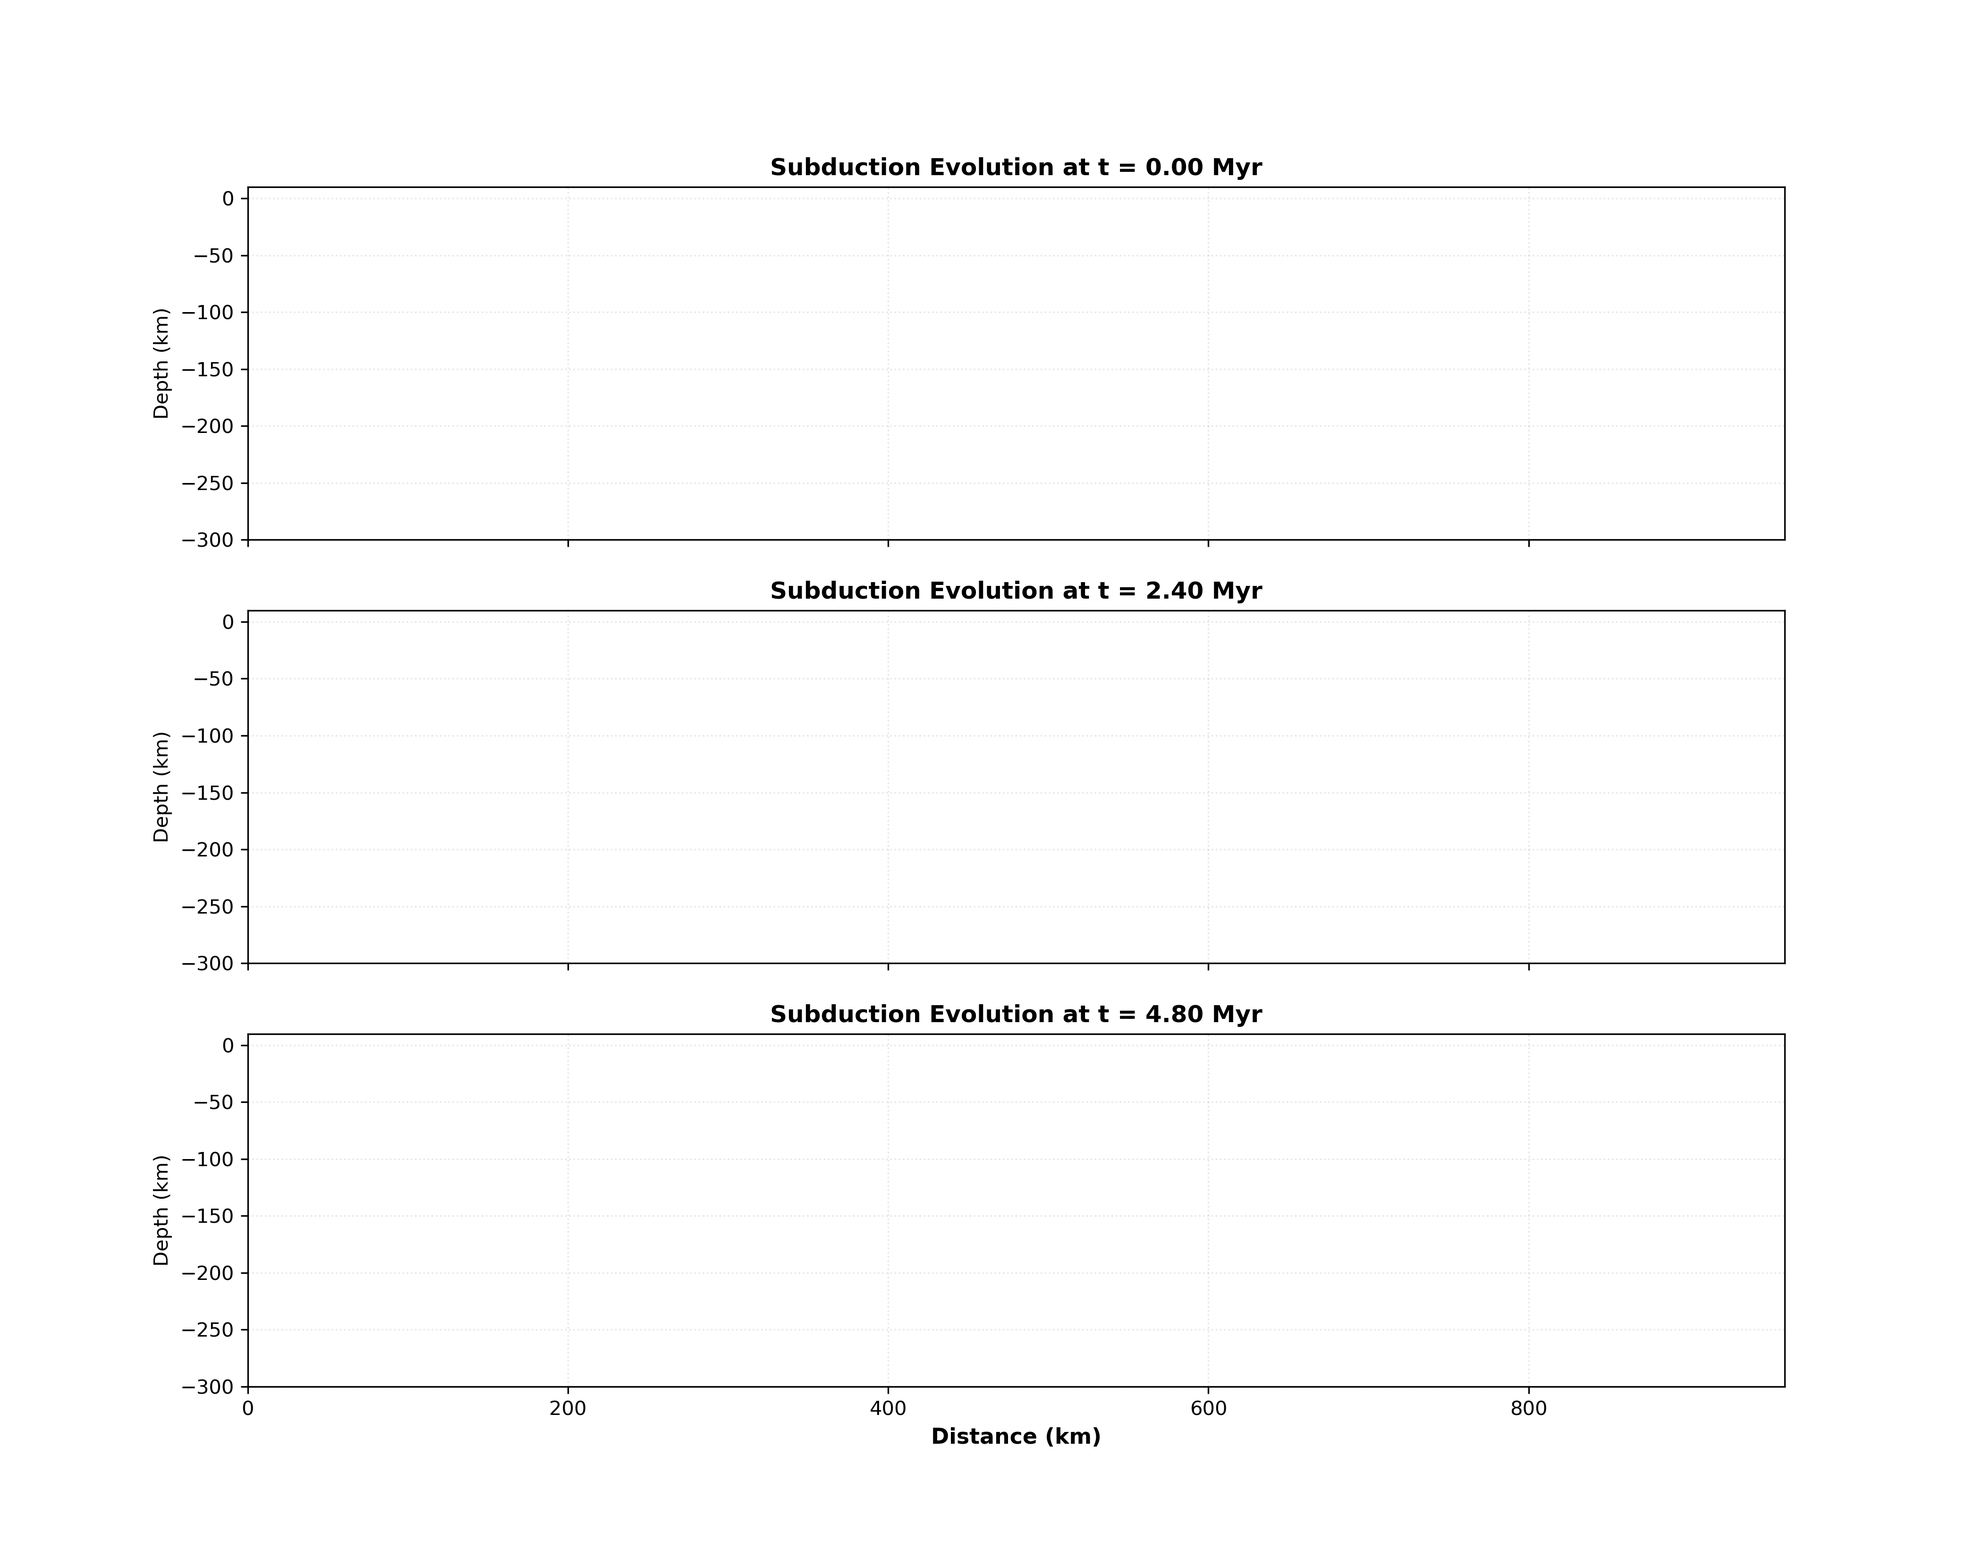
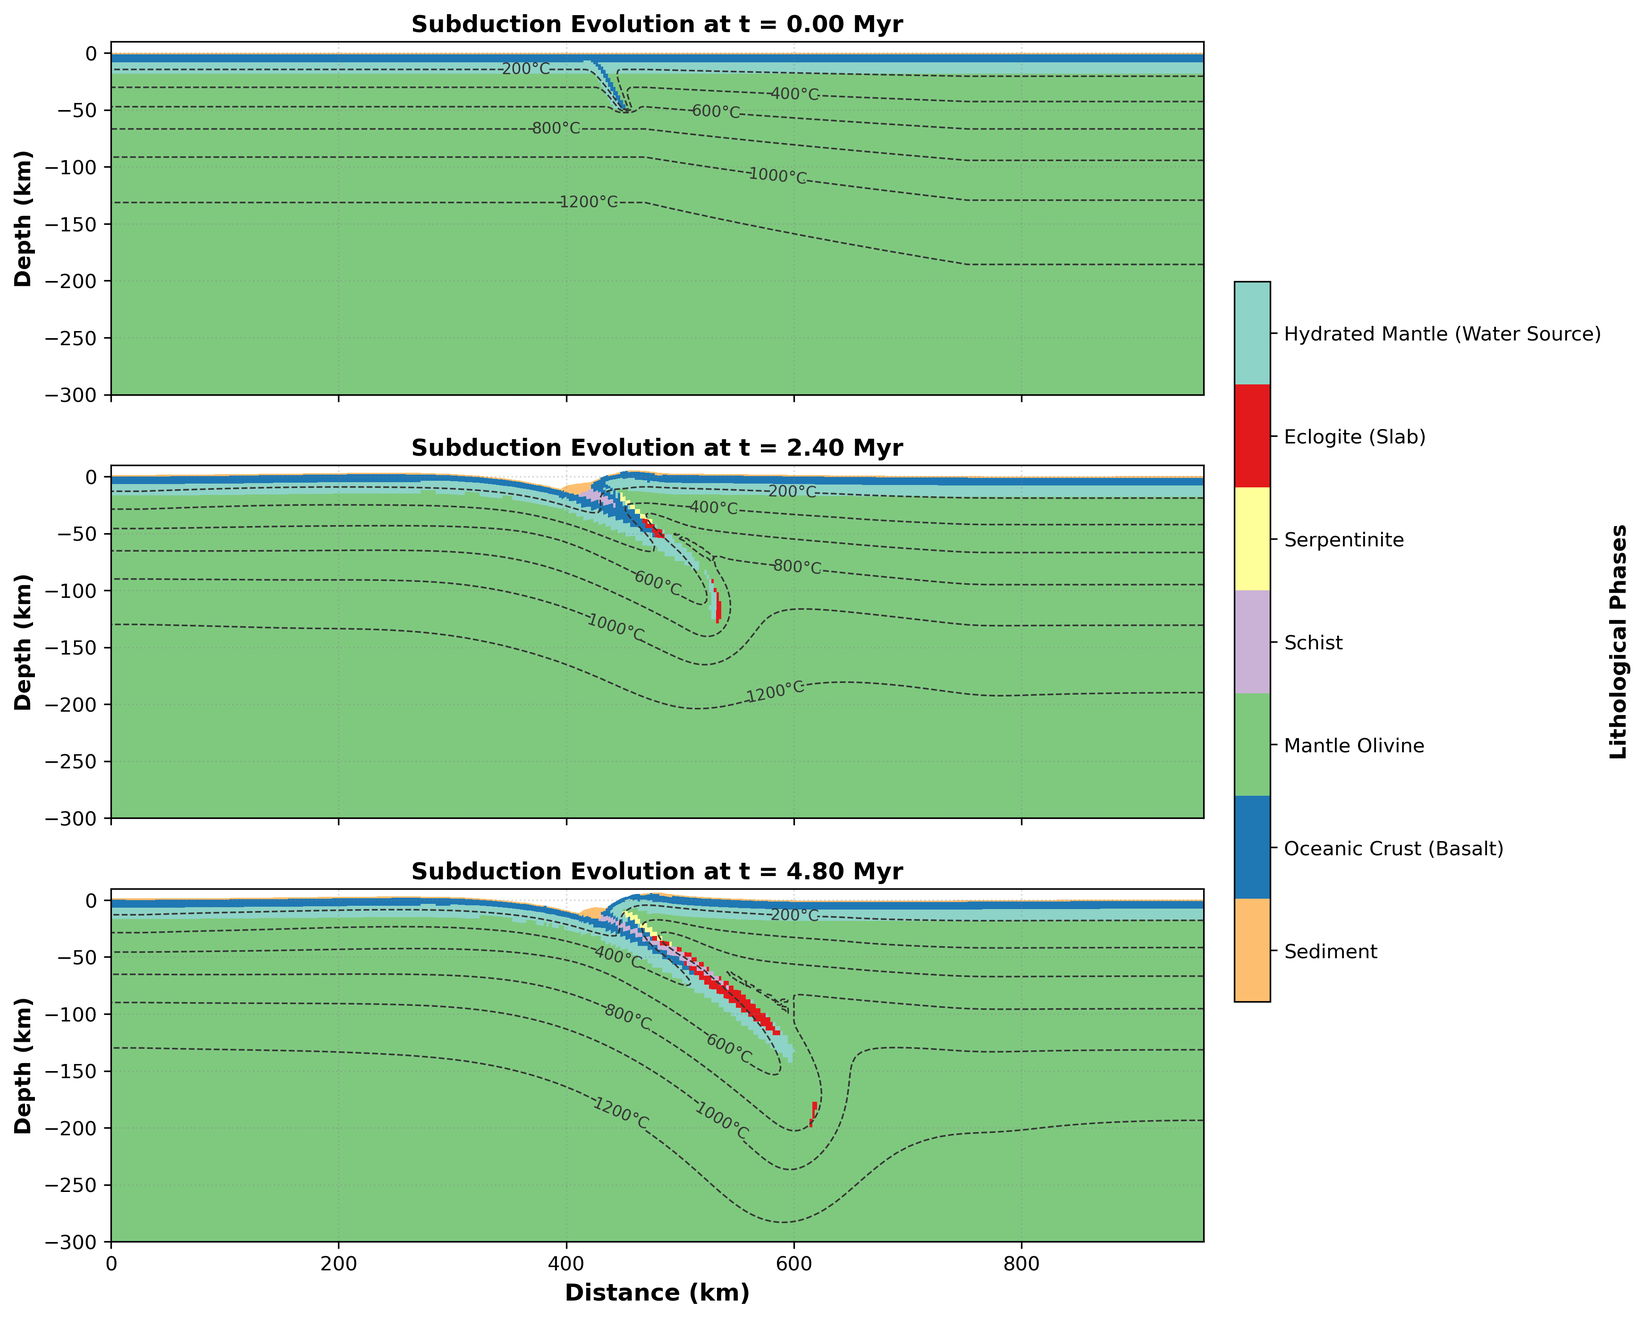
tutorial: redraw subduction zone, manually

diff --git a/examples/tutorial13-subduction/plot_subduction.py b/examples/tutorial13-subduction/plot_subduction.py
@@ -29,222 +29,86 @@ def main():
     # Create a directory for images if it doesn't exist
     os.makedirs('images', exist_ok=True)
     
-    # Plot final frame
-    frame = nrec
-    time_myr = fl.time[frame - 1]  # time in Myr
-    print(f"Plotting frame {frame} at time {time_myr:.2f} Myr...")
-    
-    # Read mesh coordinates
-    x, z = fl.read_mesh(frame)
-    X_km = x / 1e3
-    Z_km = z / 1e3
-    
-    # Read variables
-    phase = fl.read_phase(frame)
-    temp = fl.read_temperature(frame)
-    vx, vz = fl.read_vel(frame)
-    
-    # Convert velocity to cm/yr
-    # 1 m/s = 100 cm/s * 3.1536e7 s/yr = 3.1536e9 cm/yr
-    vx_cm_yr = vx * 3.1536e9
-    vz_cm_yr = vz * 3.1536e9
-    
-    # Try reading magma and melt fractions
-    try:
-        fmagma = fl.read_fmagma(frame)
-        has_magma = True
-    except Exception:
-        fmagma = np.zeros_like(phase, dtype=float)
-        has_magma = False
-        print("Note: Magma fraction file (fmagma.0) not found or could not be read.")
-
-    try:
-        fmelt = fl.read_fmelt(frame)
-        has_melt = True
-    except Exception:
-        fmelt = np.zeros_like(phase, dtype=float)
-        has_melt = False
-        print("Note: Melt fraction file (fmelt.0) not found or could not be read.")
-
     # 18 phases defined in subduction.inp
     # Map each phase ID to a specific name and hexadecimal color
     phase_info = {
-        1:  ("Basalt (Anhydrous)", "#a6cee3"),
-        2:  ("Cont. Crust (Upper)", "#fdbf6f"),
-        3:  ("Basalt (Oceanic)", "#1f78b4"),
-        4:  ("Olivine (Mantle)", "#33a02c"),
+        1:  ("Sediment", "#fdbf6f"),
+        2:  ("Continental Crust", "#fdbf6f"),
+        3:  ("Oceanic Crust (Basalt)", "#1f78b4"),
+        4:  ("Mantle Olivine", "#7fc97f"),
         5:  ("Schist", "#cab2d6"),
-        6:  ("Cont. Crust (Lower)", "#ff7f00"),
-        7:  ("Basalt (Oceanic II)", "#b2df8a"),
-        8:  ("Olivine (Mantle II)", "#6a3d9a"),
-        9:  ("Serpentinite (Mantle wedge)", "#ffff99"),
+        6:  ("Lower Cont. Crust", "#ff7f00"),
+        7:  ("Basaltic Crust II", "#b2df8a"),
+        8:  ("Mantle Olivine II", "#a6d854"),
+        9:  ("Serpentinite", "#ffff99"),
         10: ("Sedimentary Rock", "#b15928"),
-        11: ("Sediment", "#fb9a99"),
-        12: ("Weak Cont. Crust", "#fb8072"),
-        13: ("Eclogite (Metamorphic Slab)", "#e31a1c"),
+        11: ("Sediment II", "#fb9a99"),
+        12: ("Weak Crust", "#fb8072"),
+        13: ("Eclogite (Slab)", "#e31a1c"),
         14: ("Arc Crust (Volcanics)", "#e7298a"),
         15: ("Weak Mid Crust", "#bc80bd"),
-        16: ("Hydrated Mantle (Melt Source)", "#8dd3c7"),
+        16: ("Hydrated Mantle (Water Source)", "#8dd3c7"),
         17: ("Metamorphic Sediment", "#bebada"),
-        18: ("Dry Mantle (Deep)", "#80b1d3")
+        18: ("Dry Mantle", "#33a02c")
     }
 
-    # Define color array for ListedColormap
-    max_phase = 18
-    color_list = ["#ffffff"] * max_phase
-    for pid, (_, color) in phase_info.items():
-        color_list[pid - 1] = color
-    cmap_phase = mcolors.ListedColormap(color_list)
+    # Define active phases and a compact ListedColormap containing only their colors
+    active_phases = [1, 3, 4, 5, 9, 13, 16]
+    cmap_active = mcolors.ListedColormap([phase_info[pid][1] for pid in active_phases])
 
     # ----------------------------------------------------
-    # Plot 1: Full Subduction Zone Profile
-    # ----------------------------------------------------
-    fig1, ax1 = plt.subplots(figsize=(15, 6))
-    
-    # Plot phase distribution
-    im1 = ax1.pcolormesh(X_km, Z_km, phase, cmap=cmap_phase, vmin=0.5, vmax=max_phase+0.5, shading='flat')
-    
-    # Add temperature isotherms (contours)
-    # temp is a nodal variable
-    cs1 = ax1.contour(X_km, Z_km, temp, levels=[200, 400, 600, 800, 1000, 1200], 
-                       colors='#222222', linewidths=0.8, linestyles='--')
-    ax1.clabel(cs1, inline=True, fmt='%d°C', fontsize=8, colors='#222222')
-    
-    # Overlay velocity vectors (downsampled for clarity)
-    # Mesh size is 186x65. Let's skip every 5 in X and 2 in Z
-    skip_x = 5
-    skip_z = 2
-    ax1.quiver(X_km[::skip_z, ::skip_x], Z_km[::skip_z, ::skip_x], 
-               vx_cm_yr[::skip_z, ::skip_x], vz_cm_yr[::skip_z, ::skip_x],
-               color='black', scale=15.0, width=0.001, alpha=0.6,
-               label='Velocity field (cm/yr)')
-
-    # Add legend for key phases
-    # Include only the phases that are active and important in subduction
-    from matplotlib.patches import Patch
-    key_phases = [3, 4, 9, 13, 14, 16]
-    legend_elements = [
-        Patch(facecolor=phase_info[pid][1], edgecolor='gray', label=f"{phase_info[pid][0]} (Phase {pid})")
-        for pid in key_phases
-    ]
-    ax1.legend(handles=legend_elements, loc='lower left', framealpha=0.9, fontsize=9)
-    
-    ax1.set_xlabel('Distance (km)', fontsize=12, fontweight='bold')
-    ax1.set_ylabel('Depth (km)', fontsize=12, fontweight='bold')
-    ax1.set_title(f'Ocean-Ocean Subduction: Phase Distribution & Geotherm at {time_myr:.2f} Myr', 
-                  fontsize=14, fontweight='bold', pad=12)
-    ax1.grid(True, linestyle=':', alpha=0.3, color='gray')
-    ax1.set_xlim(0, 960)
-    ax1.set_ylim(-300, 10)
-    
-    plt.tight_layout()
-    plt.savefig('images/subduction_full_zone.png', dpi=300)
-    plt.close()
-    
-    # ----------------------------------------------------
-    # Plot 2: Zoomed-in Mantle Wedge and Arc Melting Zone
-    # ----------------------------------------------------
-    fig2, axes2 = plt.subplots(2, 1, figsize=(12, 10), sharex=True)
-    
-    # Set zoom limits (focus on the mantle wedge / subduction interface)
-    x_zoom_min, x_zoom_max = 300, 700
-    z_zoom_min, z_zoom_max = -150, 10
-
-    # Panel 2A: Zoomed Phase & Velocity Field
-    ax_a = axes2[0]
-    ax_a.pcolormesh(X_km, Z_km, phase, cmap=cmap_phase, vmin=0.5, vmax=max_phase+0.5, shading='flat')
-    cs_a = ax_a.contour(X_km, Z_km, temp, levels=[400, 600, 800, 1000, 1200], 
-                         colors='#222222', linewidths=1.0, linestyles='--')
-    ax_a.clabel(cs_a, inline=True, fmt='%d°C', fontsize=8, colors='#222222')
-    
-    # Downsample velocity quiver for zoom
-    skip_x_z = 2
-    skip_z_z = 1
-    ax_a.quiver(X_km[::skip_z_z, ::skip_x_z], Z_km[::skip_z_z, ::skip_x_z], 
-               vx_cm_yr[::skip_z_z, ::skip_x_z], vz_cm_yr[::skip_z_z, ::skip_x_z],
-               color='black', scale=10.0, width=0.0015, headwidth=4, headlength=5)
-    
-    ax_a.set_ylabel('Depth (km)', fontsize=11, fontweight='bold')
-    ax_a.set_title('Mantle Wedge: Phase Transformations & Dehydration Flow (Zoom)', 
-                  fontsize=13, fontweight='bold', pad=10)
-    ax_a.grid(True, linestyle=':', alpha=0.3, color='gray')
-    ax_a.set_xlim(x_zoom_min, x_zoom_max)
-    ax_a.set_ylim(z_zoom_min, z_zoom_max)
-    
-    # Panel 2B: Magma & Melt Fraction in the Wedge
-    ax_b = axes2[1]
-    
-    # Plot temperature isotherms as background
-    ax_b.contourf(X_km, Z_km, temp, levels=15, cmap='Oranges', alpha=0.1)
-    
-    # Plot fmagma or fmelt if available
-    if has_magma or has_melt:
-        plot_var = fmagma if has_magma else fmelt
-        var_label = 'Magma Fraction' if has_magma else 'Melt Fraction'
-        cmap_magma = plt.colormaps.get_cmap('Reds')
-        cmap_magma.set_under(alpha=0.0) # transparent for zero magma
-        
-        im_magma = ax_b.pcolormesh(X_km, Z_km, plot_var, cmap=cmap_magma, vmin=0.001, vmax=0.10, shading='flat')
-        cbar_magma = fig2.colorbar(im_magma, ax=ax_b, orientation='vertical', pad=0.02, shrink=0.8)
-        cbar_magma.set_label(f'{var_label} (Vol %)', fontsize=10, fontweight='bold')
-    else:
-        # Fallback representation of melting zone based on temperature & hydrated phase
-        # Just plot a colored zone where phase == 16 (hydrated mantle)
-        hydrated_mask = (phase == 16).astype(float)
-        cmap_fallback = mcolors.ListedColormap(['none', '#8dd3c7'])
-        im_fallback = ax_b.pcolormesh(X_km, Z_km, hydrated_mask, cmap=cmap_fallback, shading='flat', vmin=0.5, vmax=1.5)
-        
-        # Legend indicating hydrated mantle
-        legend_elements_b = [Patch(facecolor='#8dd3c7', edgecolor='gray', label='Hydrated Mantle wedge (Potential Melt Source)')]
-        ax_b.legend(handles=legend_elements_b, loc='upper left')
-
-    # Add slab slab contours for reference (basalt #3 and eclogite #13)
-    slab_mask = ((phase == 3) | (phase == 13)).astype(float)
-    ax_b.contour(X_km[:-1, :-1] + 0.5 * (X_km[1:, 1:] - X_km[:-1, :-1]), 
-                 Z_km[:-1, :-1] + 0.5 * (Z_km[1:, 1:] - Z_km[:-1, :-1]), 
-                 slab_mask, levels=[0.5], colors='#1f78b4', linewidths=1.2)
-    
-    # Overlay geotherm contours
-    cs_b = ax_b.contour(X_km, Z_km, temp, levels=[600, 800, 1000, 1200], 
-                         colors='#444444', linewidths=0.8, linestyles='--')
-    ax_b.clabel(cs_b, inline=True, fmt='%d°C', fontsize=8, colors='#444444')
-    
-    ax_b.set_xlabel('Distance (km)', fontsize=11, fontweight='bold')
-    ax_b.set_ylabel('Depth (km)', fontsize=11, fontweight='bold')
-    ax_b.set_title('Magma Generation & Diking Conduit Zone', fontsize=13, fontweight='bold', pad=10)
-    ax_b.grid(True, linestyle=':', alpha=0.3, color='gray')
-    ax_b.set_xlim(x_zoom_min, x_zoom_max)
-    ax_b.set_ylim(z_zoom_min, z_zoom_max)
-    
-    plt.tight_layout()
-    plt.savefig('images/subduction_mantle_wedge.png', dpi=300)
-    plt.close()
-    
-    print("Saved 'images/subduction_full_zone.png' and 'images/subduction_mantle_wedge.png'")
-    
-    # ----------------------------------------------------
-    # Plot 3: Subduction Evolution Sequence
+    # Plot: Subduction Evolution Sequence
     # ----------------------------------------------------
     if nrec >= 3:
         fig_evo, axes_evo = plt.subplots(3, 1, figsize=(14, 11), sharex=True, sharey=True)
         frames_to_plot = [1, nrec // 2 + 1, nrec]
         
+        im = None
         for idx, f_idx in enumerate(frames_to_plot):
             ax = axes_evo[idx]
             x_f, z_f = fl.read_mesh(f_idx)
             phase_f = fl.read_phase(f_idx)
+            temp_f = fl.read_temperature(f_idx)
             t_f = fl.time[f_idx - 1]
             
-            ax.pcolormesh(x_f/1e3, z_f/1e3, phase_f, cmap=cmap_phase, vmin=0.5, vmax=max_phase+0.5, shading='flat')
-            ax.set_title(f'Subduction Evolution at t = {t_f:.2f} Myr', fontsize=12, fontweight='bold')
-            ax.set_ylabel('Depth (km)', fontsize=10)
-            ax.grid(True, linestyle=':', alpha=0.3)
+            # Map original phase IDs to 0..6 for compact mapping
+            phase_mapped = np.zeros_like(phase_f, dtype=int)
+            for p_idx, pid in enumerate(active_phases):
+                phase_mapped[phase_f == pid] = p_idx
+                
+            im = ax.pcolormesh(x_f, z_f, phase_mapped, cmap=cmap_active, vmin=-0.5, vmax=len(active_phases)-0.5, shading='flat')
+            
+            # Overlay temperature contours
+            cs = ax.contour(x_f, z_f, temp_f, levels=[200, 400, 600, 800, 1000, 1200], 
+                             colors='#333333', linewidths=0.8, linestyles='--')
+            ax.clabel(cs, inline=True, fmt='%d°C', fontsize=8, colors='#333333')
+            
+            ax.set_title(f'Subduction Evolution at t = {t_f:.2f} Myr', fontsize=12, fontweight='bold', pad=5)
+            ax.set_ylabel('Depth (km)', fontsize=11, fontweight='bold')
+            ax.grid(True, linestyle=':', alpha=0.3, color='gray')
             ax.set_ylim(-300, 10)
             ax.set_xlim(0, 960)
+            ax.set_aspect('equal')
             
-        axes_evo[-1].set_xlabel('Distance (km)', fontsize=11, fontweight='bold')
-        plt.savefig('images/subduction_evolution.png', dpi=300)
-        print("Saved 'images/subduction_evolution.png'")
+        axes_evo[-1].set_xlabel('Distance (km)', fontsize=12, fontweight='bold')
+        
+        # Set vertical space between the stacked subplots
+        fig_evo.subplots_adjust(hspace=0.20)
+        
+        # Add a single colorbar for all panels
+        cbar = fig_evo.colorbar(im, ax=axes_evo.tolist(), orientation='vertical', pad=0.02, shrink=0.6)
+        cbar.set_label('Lithological Phases', fontsize=11, fontweight='bold')
+        
+        # Use rock types instead of numbers for the colorbar labels
+        cbar.set_ticks(range(len(active_phases)))
+        cbar.set_ticklabels([phase_info[pid][0] for pid in active_phases])
+        
+        plot_path = 'images/subduction_evolution.png'
+        plt.savefig(plot_path, dpi=300, bbox_inches='tight')
+        plt.close()
+        print(f"Saved '{plot_path}' successfully.")
+    else:
+        print("Note: Evolution plot requires at least 3 records of output.")
 
 if __name__ == '__main__':
     main()

diff --git a/examples/tutorial13-subduction/tutorial.md b/examples/tutorial13-subduction/tutorial.md
@@ -9,16 +9,20 @@ This tutorial explains the geodynamical principles, model setup, boundary condit
 Subduction zones are the primary drivers of plate tectonics and volcanic arc systems. An oceanic plate subducts into the mantle due to negative buoyancy (slab pull). As the slab descends, it undergoes substantial thermomechanical and mineralogical changes:
 
 ```
-  Subducting Plate (Oceanic)                   Overriding Plate (Oceanic)
+                                Trench                  Arc
+                                  |                     Volcano
+                                  |
+  Subducting                      V                    +---+   Overriding 
+  Plate (Oceanic)                                     /     \  Plate (Oceanic)
   =======================================================================
-  Crust (Basalt, Ph 3)   |                   | Crust (Basalt, Ph 3)
-  -----------------------+                   +---------------------------
-  Lithospheric Mantle     \  Serp. (Ph 9)   /
-  (Phase 4)                \~~~~~~.        /
-                            \ H.M. `·.    /         Mantle Wedge
-                             \        `·./           (Phase 4/8)
-                              \ Basalt   \
-                               \ (Ph 3)   \       Magma Migration
+  Crust (Basalt, Ph 3)             \ |   Crust (Basalt, Ph 3)
+  -----------------------+          \+---------------------------
+  Lithospheric Mantle     \ Basalt   \  \<-- Serp. (Ph 9)  
+  (Phase 4)                \ (Ph 3)   \  \ 
+                            \          \  \           Mantle Wedge
+                             \        ..\  \         (Phase 4/8)
+                              \    ...   \ |
+                               \...       \|       Magma Migration
                                 \          \             ^
                                  \ Eclogite \            |
                                   \ (Ph 13)  \           |
@@ -160,23 +164,15 @@ Run the provided Python plotting script:
 ```bash
 python3 plot_subduction.py
 ```
-This script reads the binary outputs and generates three publication-ready figures inside the `images/` directory:
-1. **`images/subduction_full_zone.png`**: A full 2D cross-section showing the subducting slab, phase distribution, temperature isotherms, and plate velocity field.
-2. **`images/subduction_mantle_wedge.png`**: A two-panel zoomed-in view of the mantle wedge ($X \in [300, 700]\text{ km}$, $Z \in [-150, 0]\text{ km}$) displaying:
-   * **Top Panel**: Active phase boundaries (serpentinite decoupling, hydrated mantle wedge) and velocity vectors.
-   * **Bottom Panel**: Magma/melt generation zone in the mantle wedge beneath the volcanic arc.
-3. **`images/subduction_evolution.png`**: A three-panel evolutionary sequence showing how the slab sinks over time.
+This script reads the binary outputs and generates a publication-ready figure inside the `images/` directory:
+* **`images/subduction_evolution.png`**: A three-panel evolutionary sequence showing how the slab sinks and transforms over time (at initial, mid, and final stages).
 
 ---
 
 ## 8. Analyzing the Results
 
-### Slab Eclogitization and Angle
-In the full profile (`images/subduction_full_zone.png`), watch how the subducting slab (green olivine mantle + blue oceanic crust) sinks. As the blue oceanic crust descends below $\sim 60\text{ km}$, it transforms into dark red **Eclogite** (Phase 13). The high density of eclogite drives the slab down, steepening the subduction angle.
+### Slab Eclogitization and Evolution
+In the evolution panels (`images/subduction_evolution.png`), watch how the subducting slab (blue oceanic crust + green mantle olivine) sinks. As the blue oceanic crust descends below $\sim 60\text{ km}$, it undergoes a phase transition to dark red **Eclogite** (Phase 13). The high density of eclogite provides negative buoyancy, pulling the slab down and stabilizing the subduction interface.
 
-### Mantle Wedge Flow and Hydration
-Observe the velocity vectors in the mantle wedge. The descending slab drags the adjacent wedge mantle downwards, establishing a **corner flow`** convection cell. 
-Directly above the slab, you will see a thin yellow layer of **Serpentinite** (Phase 9) at shallow depths, which transitions into **Hydrated Mantle** (Phase 16) at greater depths.
-
-### Arc Magmatism
-Look at the zoomed-in plot (`images/subduction_mantle_wedge.png`). The hydrated mantle (Phase 16) sits in the hot core of the mantle wedge ($T > 800^\circ\text{C}$). Because of hydration, this region starts melting, visible as a red-colored anomaly of high **magma fraction**. The extracted magma travels vertically through the diking channel (Phase 14) directly above the melting zone to form the volcanic arc at the surface.
+### Mantle Wedge Hydration & Melting
+Directly above the descending slab, hydration processes transform the wedge mantle. At shallow depths ($< 65\text{ km}$), releasing water hydrates the mantle wedge to form a thin yellow layer of **Serpentinite** (Phase 9), which transitions to a green-blue **Hydrated Mantle** (Phase 16) at greater depths. The hot core of the mantle wedge undergoes partial wet melting once temperatures exceed the water-saturated solidus, feeding magma vertically to build the volcanic arc crust (Phase 14) at the surface.
